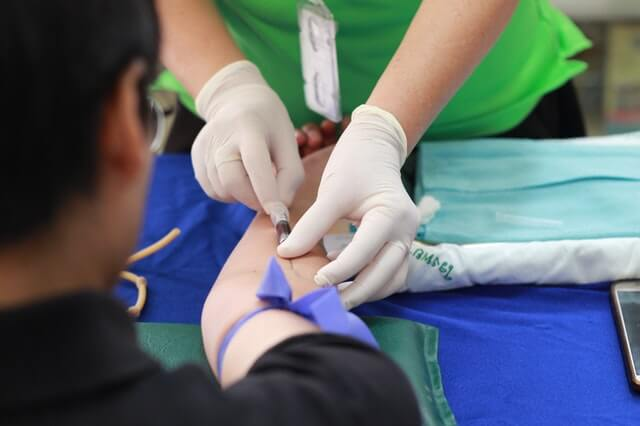
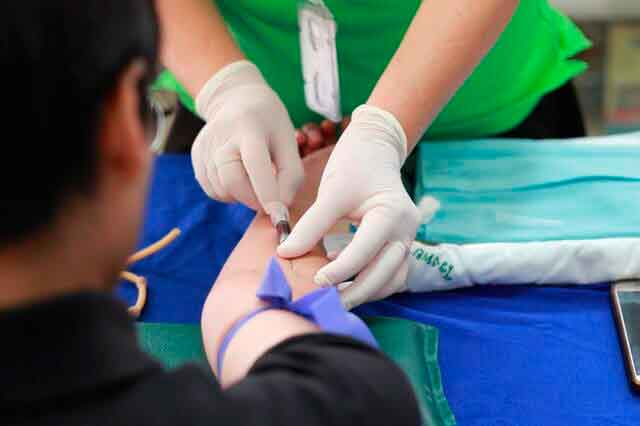
Optimizacion de imagenes para movil

diff --git a/index.html b/index.html
@@ -38,12 +38,20 @@
         </header>
         <main>
             <section class="main__title--container">
-                <img
-                    src="./assets/images/analizador-de-sangre-para-laboratorios-clinicos.jpg"
-                    alt="Analizador de sangre para analisis clinicos de laboratorio"
-                    width="100%"
-                    height="100%"
-                />
+                <picture>
+                    <source
+                        media="(min-width: 800px)"
+                        srcset="
+                            ./assets/images/analizador-de-sangre-para-laboratorios-clinicos.jpg
+                        "
+                    />
+                    <img
+                        src="./assets/images/tinified/small-analizador-de-sangre-para-laboratorios-clinicos.jpg"
+                        alt="Logo del laboratorio de analisis clinicos cuevas laboratorios"
+                        height="29"
+                        width="195"
+                    />
+                </picture>
                 <h1>Análisis Clínicos Cuevas Laboratorios</h1>
                 <h2>Siempre al pendiente de usted</h2>
                 <p>
@@ -53,10 +61,20 @@
             </section>
             <section id="promociones" class="main__promotions--container">
                 <article>
-                    <img
-                        src="./assets/images/extraccion-de-sangre-para-analisis-clinico.jpg"
-                        alt="Extraccion de sangre para analisis clinicos"
-                    />
+                    <picture>
+                        <source
+                            media="(min-width: 800px)"
+                            srcset="
+                                ./assets/images/extraccion-de-sangre-para-analisis-clinico.jpg
+                            "
+                        />
+                        <img
+                            src="./assets/images/tinified/small-extraccion-de-sangre-para-analisis-clinico.jpg"
+                            alt="Extraccion de sangre para analisis clinicos"
+                            width="100%"
+                            height="100%"
+                        />
+                    </picture>
                     <h2>Cuidado integral</h2>
                     <p>
                         Recuerda que con nosotros puedes realizar análisis
@@ -80,12 +98,18 @@
                     <p>$500</p>
                 </article>
                 <article>
-                    <img
-                        src="./assets/images/personas-saludables.jpg"
-                        alt="Personas con buena salud"
-                        width="100%"
-                        height="100%"
-                    />
+                    <picture>
+                        <source
+                            media="(min-width: 800px)"
+                            srcset="./assets/images/personas-saludables.jpg"
+                        />
+                        <img
+                            src="./assets/images/tinified/small-personas-saludables.jpg"
+                            alt="Analisis para jovenes"
+                            width="100%"
+                            height="100%"
+                        />
+                    </picture>
                     <h2>
                         Analsis baratos de colesterol y mas con el sábado
                         saludable
@@ -109,15 +133,23 @@
                     <p>$100</p>
                 </article>
                 <article>
+                    <picture>
+                        <source
+                            media="(min-width: 800px)"
+                            srcset="
+                                ./assets/images/examen-para-personas-de-la-tercera-edad.jpg
+                            "
+                        />
+                    </picture>
                     <img
-                        src="./assets/images/persona-de-la-tercera-edad-con-salud.jpg"
-                        alt="Personas de la tercera edad con buena salud"
+                        src="./assets/images/tinified/small-examen-para-personas-de-la-tercera-edad.jpg"
+                        alt="Analisis para personas de la tercera"
                         width="100%"
                         height="100%"
                     />
                     <h2>Análsis para personas de la tercera edad</h2>
                     <p>
-                        25% de descuento en estudios de rutina y 10% en pruebas
+                        20% de descuento en estudios de rutina y 10% en pruebas
                         especiales para personas de la tercera edad.
                     </p>
                     <div>
@@ -345,18 +377,34 @@
                 </div>
                 <div class="about-use__doctor--container">
                     <section class="about-use__doctor--images">
-                        <img
-                            src="./assets/images/sangre-para-examen-clinico.jpg"
-                            alt="Tubo con sangre para examen clinico"
-                            height="190"
-                            width="120"
-                        />
-                        <img
-                            src="./assets/images/analisis-de-muestras-cuevas-laboratorios.jpg"
-                            alt="Daniel cuevas morales analizando muestras de sangre"
-                            height="450"
-                            width="150"
-                        />
+                        <picture>
+                            <source
+                                media="(min-width: 800px)"
+                                srcset="
+                                    ./assets/images/sangre-para-examen-clinico.jpg
+                                "
+                            />
+                            <img
+                                src="./assets/images/tinified/small-sangre-para-examen-clinico.jpg"
+                                alt="Tubo con sangre para examen clinico"
+                                height="190"
+                                width="120"
+                            />
+                        </picture>
+                        <picture>
+                            <source
+                                media="(min-width: 800px)"
+                                srcset="
+                                    ./assets/images/analisis-de-muestras-cuevas-laboratorios.jpg
+                                "
+                            />
+                            <img
+                                src="./assets/images/tinified/small-analisis-de-muestras-cuevas-laboratorios.jpg"
+                                alt="Tubo con sangre para examen clinico"
+                                height="190"
+                                width="120"
+                            />
+                        </picture>
                     </section>
                     <section class="about-use__doctor--info">
                         <div class="doctor__info--title">

diff --git a/styles/main.css b/styles/main.css
@@ -100,10 +100,11 @@ main .main__title--container {
 
 main .main__title--container img {
     position: absolute;
+    top: 0;
+    left: 0;
     width: 100%;
     height: 100%;
     object-fit: cover;
-    object-position: center;
     opacity: 0.1;
 }
 
@@ -142,6 +143,8 @@ main .main__promotions--container article {
     height: 100%;
     object-fit: cover;
     position: absolute;
+    top: 0;
+    left: 0;
 }
 
 .main__promotions--container article h2 {
@@ -418,7 +421,10 @@ main .main__about-us--container .about-us__div--info p {
     max-width: 350px;
 }
 
-.about-use__doctor--container .about-use__doctor--images img:first-child {
+.about-use__doctor--container
+    .about-use__doctor--images
+    picture:first-child
+    img {
     z-index: 1;
     position: absolute;
     left: 30px;
@@ -427,7 +433,10 @@ main .main__about-us--container .about-us__div--info p {
     width: 120px;
 }
 
-.about-use__doctor--container .about-use__doctor--images img:last-child {
+.about-use__doctor--container
+    .about-use__doctor--images
+    picture:last-child
+    img {
     z-index: 2;
     position: absolute;
     max-height: 450px;

diff --git a/styles/desktop.css b/styles/desktop.css
@@ -253,12 +253,18 @@
         margin: 0 auto;
     }
 
-    .about-use__doctor--container .about-use__doctor--images img:first-child {
+    .about-use__doctor--container
+        .about-use__doctor--images
+        picture:first-child
+        img {
         height: 250px;
         width: 200px;
     }
 
-    .about-use__doctor--container .about-use__doctor--images img:last-child {
+    .about-use__doctor--container
+        .about-use__doctor--images
+        picture:last-child
+        img {
         width: 250px;
     }
 
